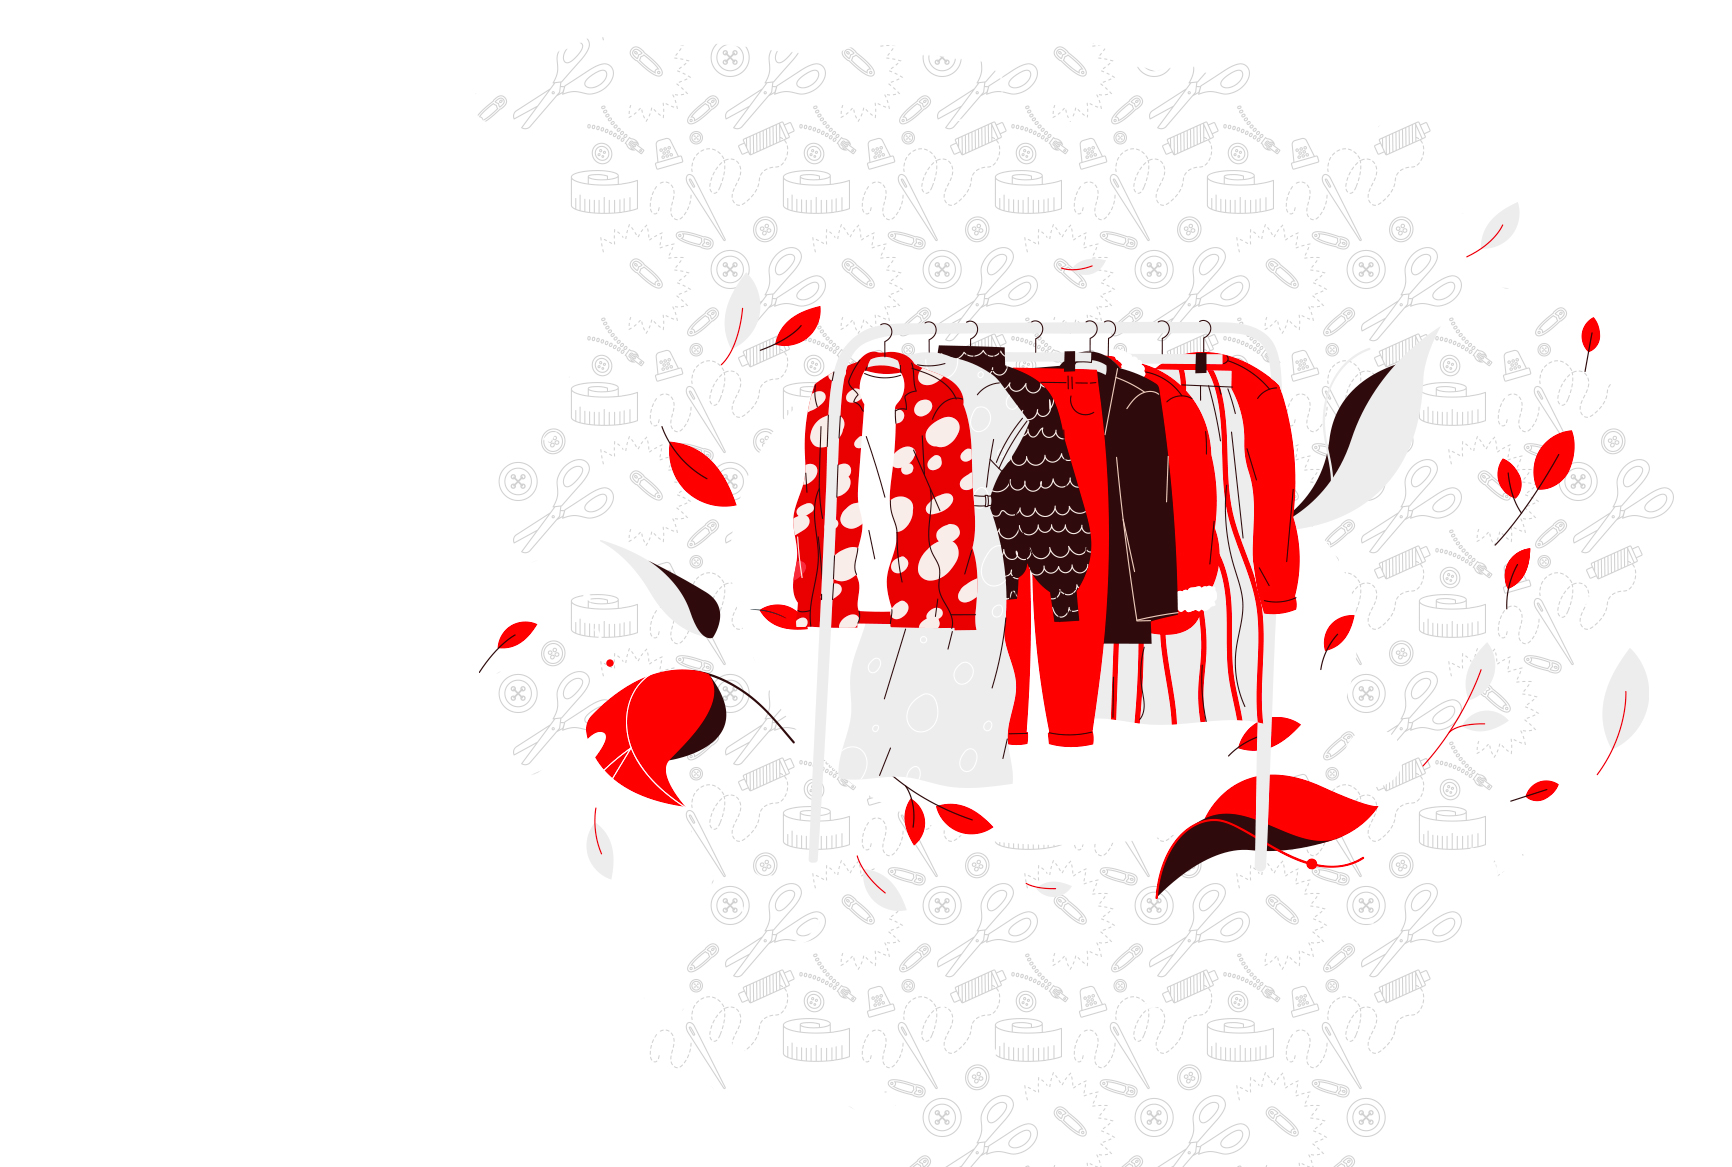
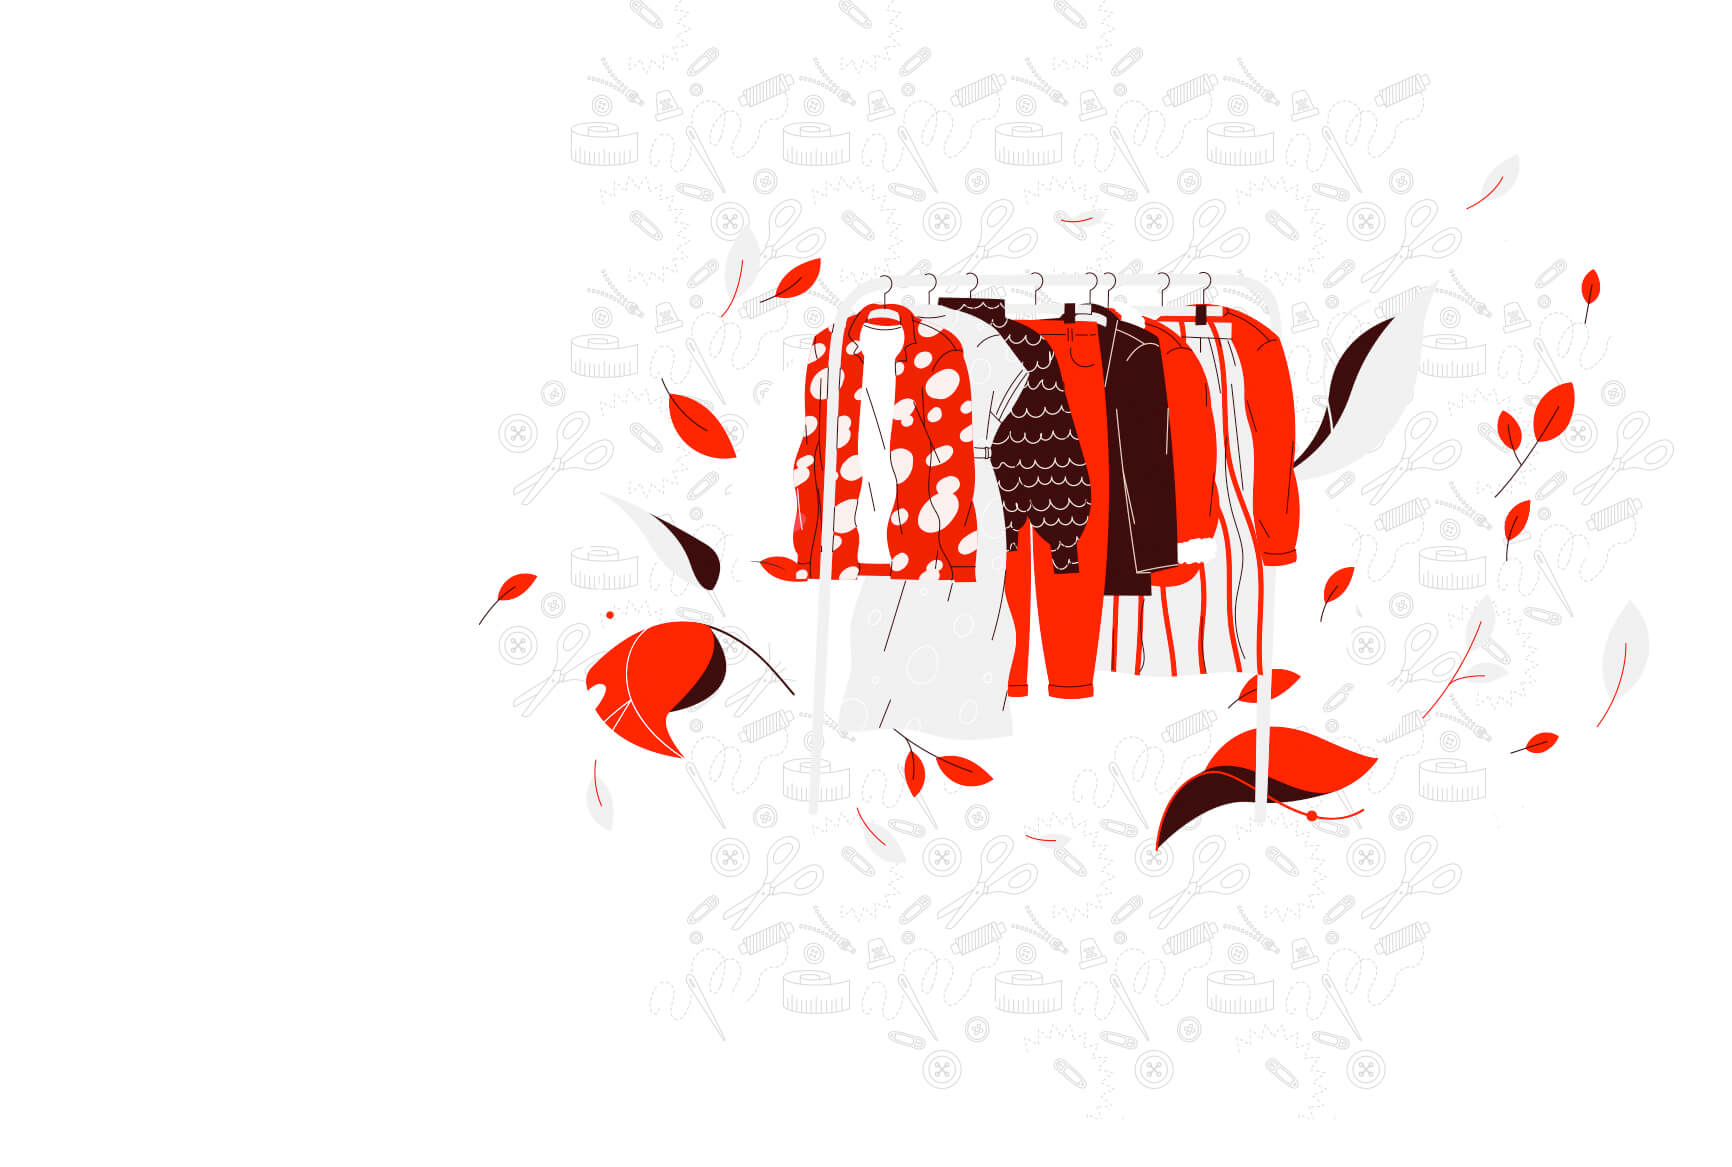
Welcome page illustrations updated.Data importation modified to avoid translation keys in singularities. Full story keywords updated. Media translation key removed.

diff --git a/app/Traits/DataImporter.php b/app/Traits/DataImporter.php
@@ -658,7 +658,7 @@ trait DataImporter {
                                 $new_article->singularity_lu = "";
                                 $new_article->singularity_fr = "";
                                 $new_article->singularity_en = "";
-                                $new_article->singularity_de = "article.singularity-".strtolower($creation->name)."-".$new_article->name;
+                                $new_article->singularity_de = "";
                                 $new_article->translation_key = "article.singularity-".strtolower($new_article->name);
                                 $new_article->creation_date = $picture_info[6];
                                 //$new_article->picture_name = $picture_name;
@@ -925,7 +925,7 @@ trait DataImporter {
                                 $new_replacement->singularity_lu = "";
                                 $new_replacement->singularity_fr = "";
                                 $new_replacement->singularity_en = "";
-                                $new_replacement->singularity_de = "article.singularity-".strtolower($replacement)."-".$new_replacement->name;
+                                $new_replacement->singularity_de = "";
                                 $new_replacement->translation_key = "article.singularity-".strtolower($new_replacement->name);
                                 $new_replacement->creation_date = $picture_info[6];
 
@@ -1523,7 +1523,7 @@ trait DataImporter {
                 if ($article_sophie['singularity_de'] != "") {
                     $article->singularity_de = $article_sophie['singularity_de'];
                 } else {
-                    $article->singularity_fr = $article->translation_key;
+                    $article->singularity_de = "";
                 }
                 if ($article->save()) {
                     echo "<span style='color: green; padding-left: 10px;'>Singularities updated for article ".$article->name."</span><br/>";

diff --git a/resources/views/footer/pages/medias.blade.php b/resources/views/footer/pages/medias.blade.php
@@ -24,9 +24,9 @@
 	<section class="footer-medias w-4/5 lg:w-1/2 m-auto">
 		<h3 class="footer-medias__subtitle">{{ __('footer.medias-subtitle') }}</h3>
 		<h1 class="footer-medias__title" id="medias-title">{{ __('footer.medias-title') }}</h1>
-		<p class="footer-medias__paragraph pl-10 pr-10">
+		<!-- <p class="footer-medias__paragraph pl-10 pr-10">
 			{{ __('footer.medias-txt-1') }}
-		</p>
+		</p> -->
 		<ul class="media-links__accordion">
 			<li>
 				<div class="media-links__accordion__header flex justify-between">

diff --git a/resources/views/header/pages/full-story.blade.php b/resources/views/header/pages/full-story.blade.php
@@ -108,11 +108,7 @@
 	</p>
 
 	<p class="full-story__txt">
-		{{ __('about.full-paragraph-5-6') }}
-	</p>
-
-	<p class="full-story__txt">
-		{{ __('about.full-paragraph-5-7') }} <a href="https://benu.lu">benu.lu</a> {{ __('about.full-paragraph-5-8') }}
+		{{ __('about.full-paragraph-5-6') }} <a href="{{ route('about-'.app()->getLocale()) }}" target="_blank">{{ __('about.full-paragraph-5-7') }}</a>. {{ __('about.full-paragraph-5-8') }} (<a href="https://benu.lu">benu.lu</a>).
 	</p>
 </section>
 @endsection
